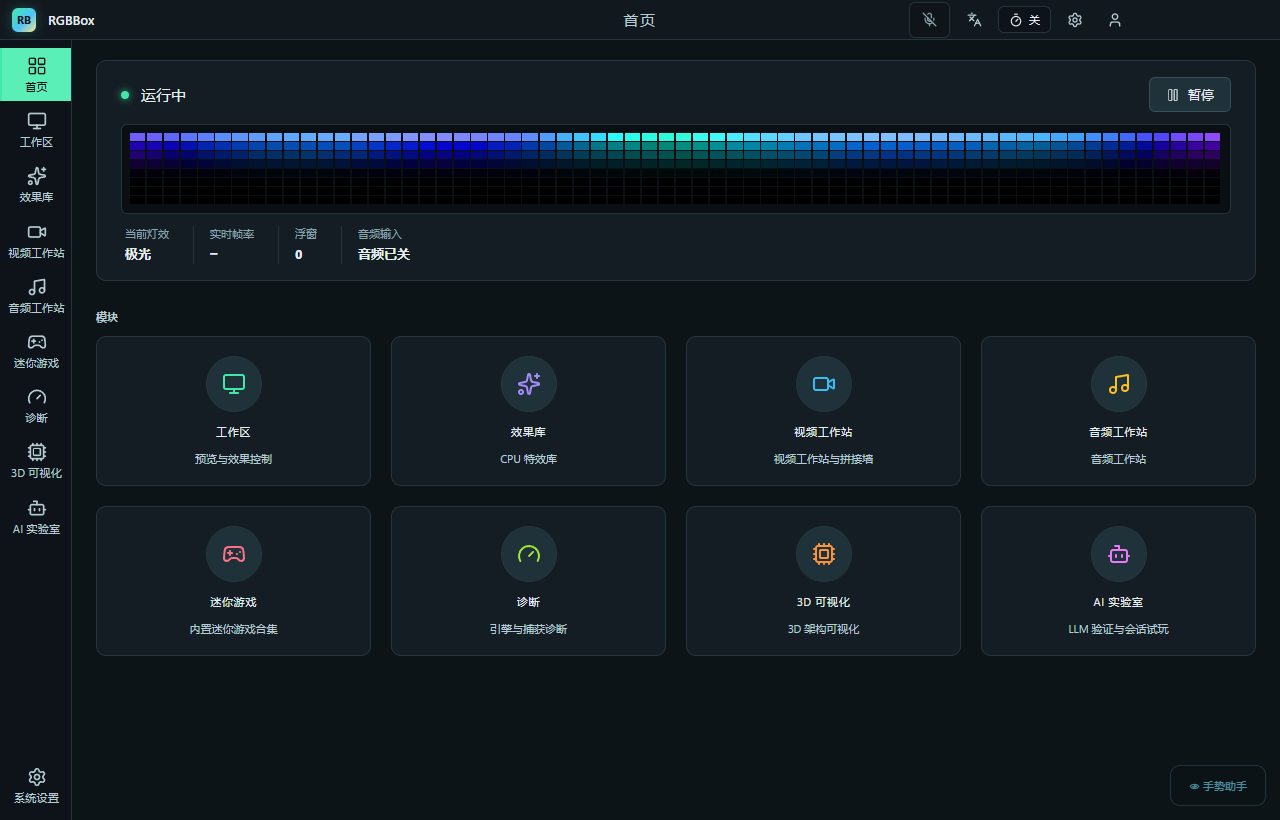
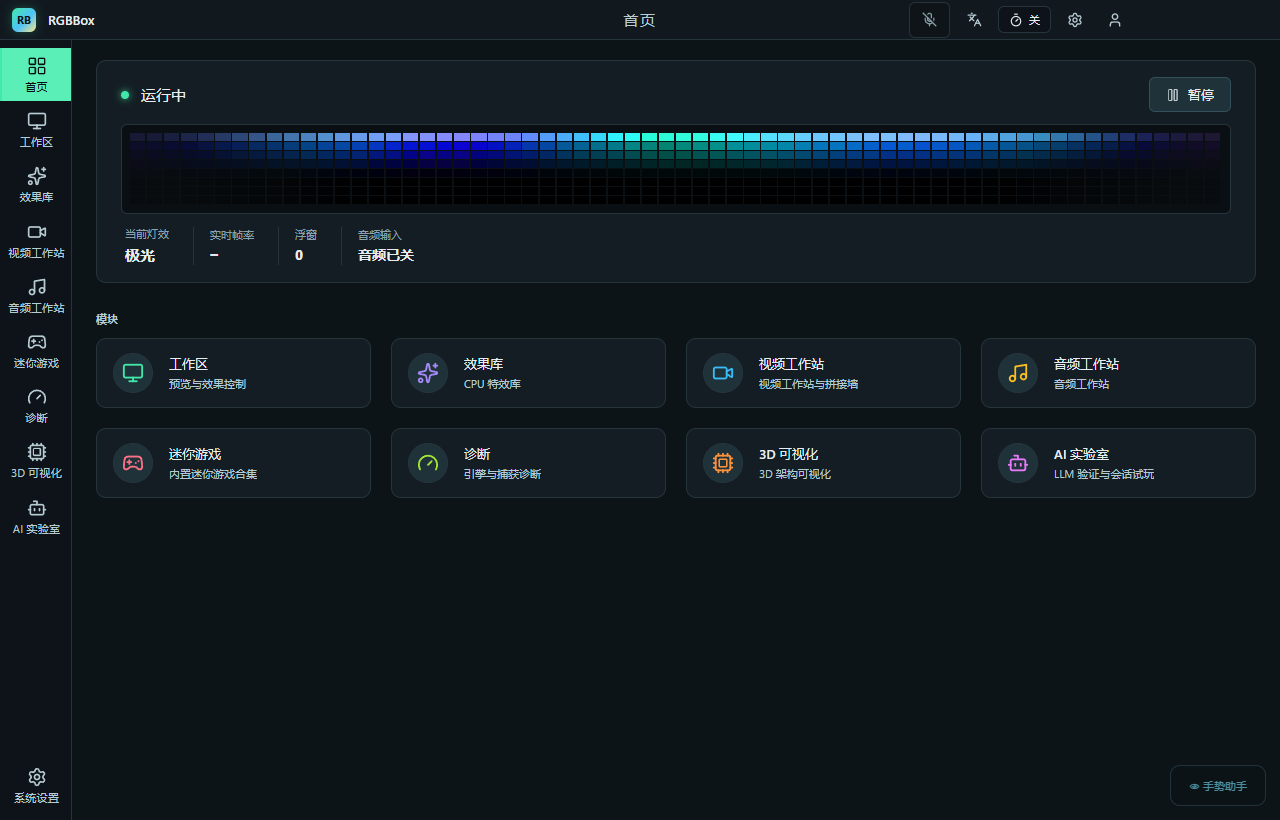
[PRD-0002] feat: R303.6 仪表盘二轮 review 增补 — 聚光渐隐+读数 lead+磁贴横向重构
用户持实测截图要求再次 review,主问题:舞台条满铺全饱和读作「校准色卡」
而非「舞台」;次问题:Hero 与正文断层、磁贴 150px 偏空。三件全做:
- 聚光渐隐:列亮度两端 15% smoothstep 升至中段 100%(blend 舞台底色)
- 读数行:效果名 lead 变体(title 档 600),全值 0.875rem
- 磁贴横向重构:图标圆片居左+文字块(label body 档 sentence-case+
  desc 左对齐),解除 min-height,模块区读作索引列表

证据:spotlight 权重单测+全量 199f/1840p;真机走查活性 29.1%/停 0.0%;
AI 目视:渐隐消除色卡感、零新缺陷、整体 9/10;快照重立 9/9 全 0.0000%。

diff --git a/src/renderer/src/styles/app.css b/src/renderer/src/styles/app.css
@@ -7772,8 +7772,14 @@ input[type='range'].video-player-volume {
 }
 .dash-readout-v {
   color: var(--text-primary);
-  font-size: var(--text-body-size);
+  font-size: 0.875rem;
   line-height: var(--text-body-lh);
+}
+/* R303.6: 效果名 lead 变体——读数行的主角，压回 Hero 与正文的断层 */
+.dash-readout-v.lead {
+  font-size: var(--text-title-size);
+  font-weight: 600;
+  line-height: var(--text-title-lh);
 }
 .dash-readout-v.mono {
   font-family: var(--font-mono);
@@ -7814,11 +7820,10 @@ input[type='range'].video-player-volume {
   border-radius: var(--radius-l);
   cursor: pointer;
   display: flex;
-  flex-direction: column;
-  gap: var(--space-3);
-  justify-content: center;
-  min-height: 150px;
-  padding: 18px 12px;
+  flex-direction: row;
+  gap: var(--space-4);
+  padding: 14px 16px;
+  text-align: left;
   transition: background 150ms ease, border-color 150ms ease;
 }
 .dash-tile:hover { background: var(--bg-card-hover); border-color: var(--accent); }
@@ -7829,9 +7834,17 @@ input[type='range'].video-player-volume {
   border-radius: 50%;
   color: var(--text-primary);
   display: flex;
-  height: 56px;
+  flex: none;
+  height: 40px;
   justify-content: center;
-  width: 56px;
+  width: 40px;
+}
+/* R303.6: 横向磁贴的文字块（label + desc 左对齐堆叠） */
+.dash-tile-text {
+  display: flex;
+  flex-direction: column;
+  gap: 2px;
+  min-width: 0;
 }
 .dash-tile:hover .dash-tile-icon { filter: brightness(1.08); }
 
@@ -7852,16 +7865,18 @@ input[type='range'].video-player-volume {
 .dash-tile:hover .dash-tile-icon { background: var(--border-hover); border-color: var(--border-hover); }
 .dash-tile-label {
   color: var(--text-primary);
-  font-size: var(--text-caption-size);
-  letter-spacing: 0.06em;
-  text-transform: uppercase;
+  font-size: var(--text-body-size);
+  font-weight: 500;
+  line-height: var(--text-body-lh);
 }
 /* R303: 模块描述（dash.desc.* 首次上屏）——一行 caption，磁贴不再只是图标+名 */
 .dash-tile-desc {
   color: var(--text-secondary);
   font-size: var(--text-caption-size);
   line-height: var(--text-caption-lh);
-  text-align: center;
+  overflow: hidden;
+  text-overflow: ellipsis;
+  white-space: nowrap;
 }
 
 /* R86 review fix: narrow-screen rail collapse must come AFTER the base

diff --git a/src/renderer/src/components/DashStageStrip.tsx b/src/renderer/src/components/DashStageStrip.tsx
@@ -24,6 +24,25 @@ const W = COLS * CELL // 640
 const H = ROWS * CELL // 80
 /** 舞台底色 = tokens.css --stage-bg 的字面量（canvas 读不到 CSS 变量；卡片侧 #080d11 同款先例）。 */
 const STAGE_BG = '#0a0f13'
+const STAGE_BG_RGB: readonly [number, number, number] = [10, 15, 19]
+
+/**
+ * R303.6: 列聚光权重（spotlight vignette）——两端 15% 平滑升至距边 25% 处
+ * 的 100%。满铺全饱和读作「校准色卡」；两端向舞台底色渐暗后读作「被灯
+ * 照亮的一截舞台」。导出供单测锁定（边缘<中心、中心=1）。
+ */
+export function spotlightColumnWeights(): readonly number[] {
+  const w: number[] = []
+  for (let x = 0; x < COLS; x++) {
+    const vx = x / (COLS - 1)
+    const edge = Math.min(vx, 1 - vx) // 边缘 0 → 中心 0.5
+    const t = Math.min(1, edge / 0.25) // 距边 25% 即到全亮
+    const s = t * t * (3 - 2 * t) // smoothstep
+    w.push(0.15 + 0.85 * s)
+  }
+  return w
+}
+const COL_WEIGHTS = spotlightColumnWeights()
 
 export interface DashStageStripProps {
   kind: EffectKind
@@ -60,9 +79,10 @@ export function DashStageStrip({ kind, parameters, running, performanceMode }: D
       for (let y = 0; y < ROWS; y++) {
         for (let x = 0; x < COLS; x++) {
           const c = renderEffectPixel(layer, { x, y, columns: COLS, rows: ROWS, now: t })
-          ctx.fillStyle = dim
-            ? `rgb(${(c.r * 0.3) | 0},${(c.g * 0.3) | 0},${(c.b * 0.3) | 0})`
-            : `rgb(${c.r},${c.g},${c.b})`
+          // R303.6: 聚光渐隐——列亮度向舞台底色 blend（暂停态再整体压暗）
+          const b = dim ? COL_WEIGHTS[x] * 0.3 : COL_WEIGHTS[x]
+          const inv = 1 - b
+          ctx.fillStyle = `rgb(${(c.r * b + STAGE_BG_RGB[0] * inv) | 0},${(c.g * b + STAGE_BG_RGB[1] * inv) | 0},${(c.b * b + STAGE_BG_RGB[2] * inv) | 0})`
           ctx.fillRect(x * CELL, y * CELL, CELL - GAP, CELL - GAP)
         }
       }

diff --git a/src/renderer/src/components/DashboardView.tsx b/src/renderer/src/components/DashboardView.tsx
@@ -71,7 +71,8 @@ export function DashboardView({ onOpen, model3dEnabled, status, effect, performa
         <div className="dash-readouts">
           <div className="dash-readout">
             <span className="dash-readout-k">{t('dash.card.effect')}</span>
-            <strong className="dash-readout-v">{status.effectName}</strong>
+            {/* R303.6: lead 变体——效果名是读数行的主角，升 title 档压回一点 Hero 断层 */}
+            <strong className="dash-readout-v lead">{status.effectName}</strong>
           </div>
           <div className="dash-readout">
             <span className="dash-readout-k">{t('dash.card.fps')}</span>
@@ -118,10 +119,14 @@ export function DashboardView({ onOpen, model3dEnabled, status, effect, performa
             const meta = MODULE_META[view]
             const Icon = meta.icon
             return (
+              /* R303.6: 横向磁贴——图标圆片居左 + 右侧文字块（label 升 body 档
+                 sentence-case + desc 左对齐），模块区读作索引而非启动器网格。 */
               <button key={view} type="button" className="dash-tile" onClick={() => onOpen(view)}>
-                <span className="dash-tile-icon" data-tint={meta.tint}><Icon size={24} /></span>
-                <span className="dash-tile-label">{t(meta.labelKey)}</span>
-                <span className="dash-tile-desc">{t(meta.descKey)}</span>
+                <span className="dash-tile-icon" data-tint={meta.tint}><Icon size={22} /></span>
+                <span className="dash-tile-text">
+                  <span className="dash-tile-label">{t(meta.labelKey)}</span>
+                  <span className="dash-tile-desc">{t(meta.descKey)}</span>
+                </span>
               </button>
             )
           })}

diff --git a/tests/renderer/components/DashStageStrip.test.tsx b/tests/renderer/components/DashStageStrip.test.tsx
@@ -2,11 +2,23 @@
 // R303: 灯效舞台条 —— DOM/生命周期冒烟（canvas 像素由真机走查承担）
 import { describe, it, expect, beforeEach } from 'vitest'
 import { render, cleanup } from '@testing-library/react'
-import { DashStageStrip } from '../../../src/renderer/src/components/DashStageStrip'
+import { DashStageStrip, spotlightColumnWeights } from '../../../src/renderer/src/components/DashStageStrip'
 
 beforeEach(() => cleanup())
 
 describe('DashStageStrip (R303)', () => {
+  it('R303.6 聚光渐隐:边缘最暗(≈0.15)、中心全亮(=1)、单调递增到 25% 处', () => {
+    const w = spotlightColumnWeights()
+    expect(w.length).toBe(64)
+    expect(w[0]).toBeCloseTo(0.15, 5)
+    expect(w[w.length - 1]).toBeCloseTo(0.15, 5)
+    expect(w[32]).toBe(1)
+    // 距边 25%（x=16）处已达全亮，之后保持
+    expect(w[16]).toBe(1)
+    // 单调：边缘 → 中心不减
+    for (let x = 1; x <= 32; x++) expect(w[x]).toBeGreaterThanOrEqual(w[x - 1])
+  })
+
   it('运行中的 CPU 效果：渲染画布且不启动清理泄漏（卸载安全）', () => {
     const { container, unmount } = render(
       <DashStageStrip kind="rainbow" parameters={{ speed: 1 }} running performanceMode="balanced" />
